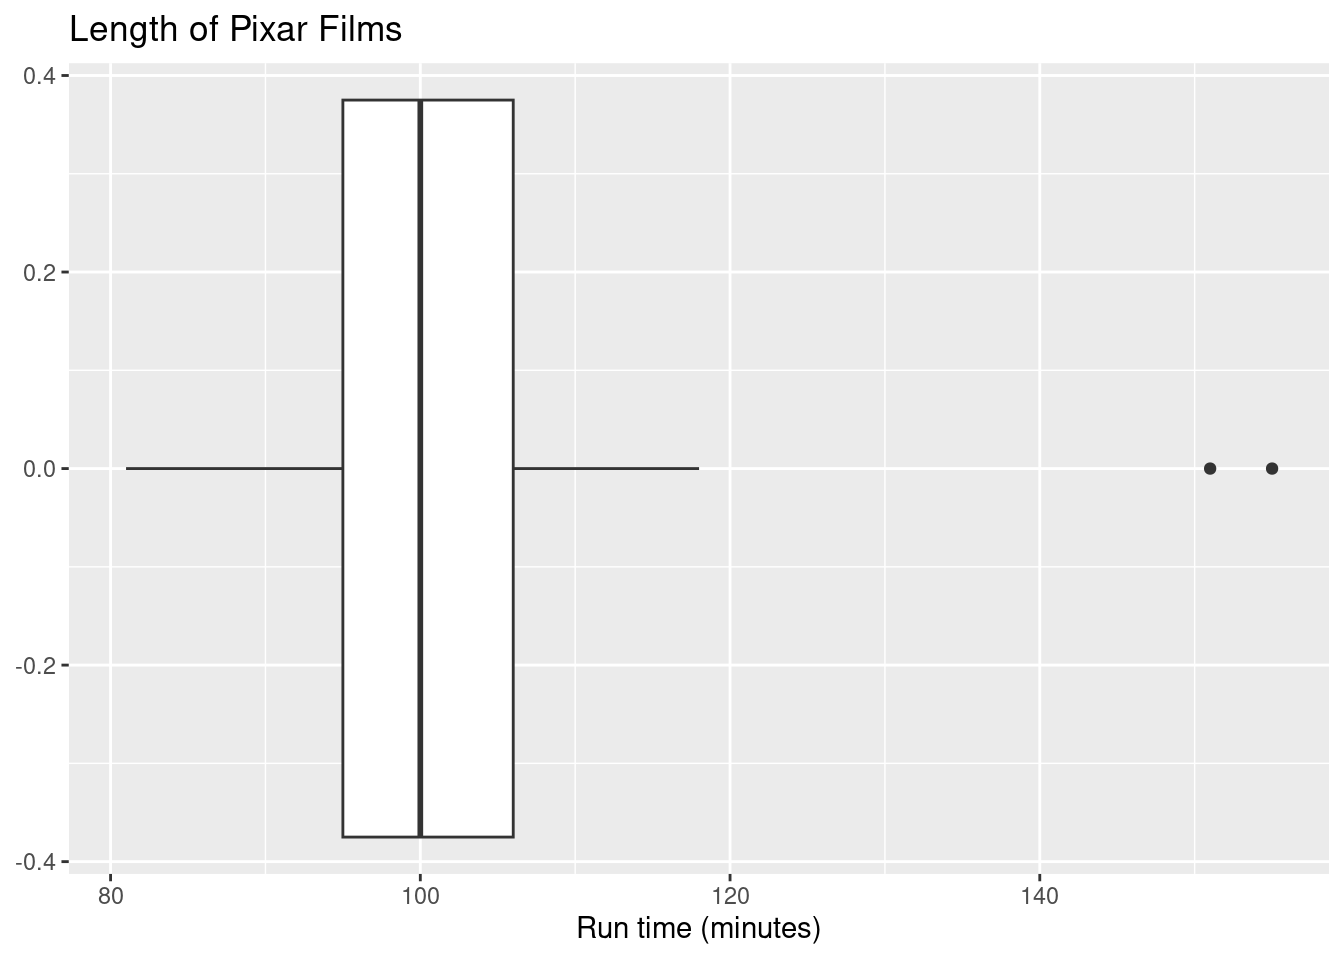
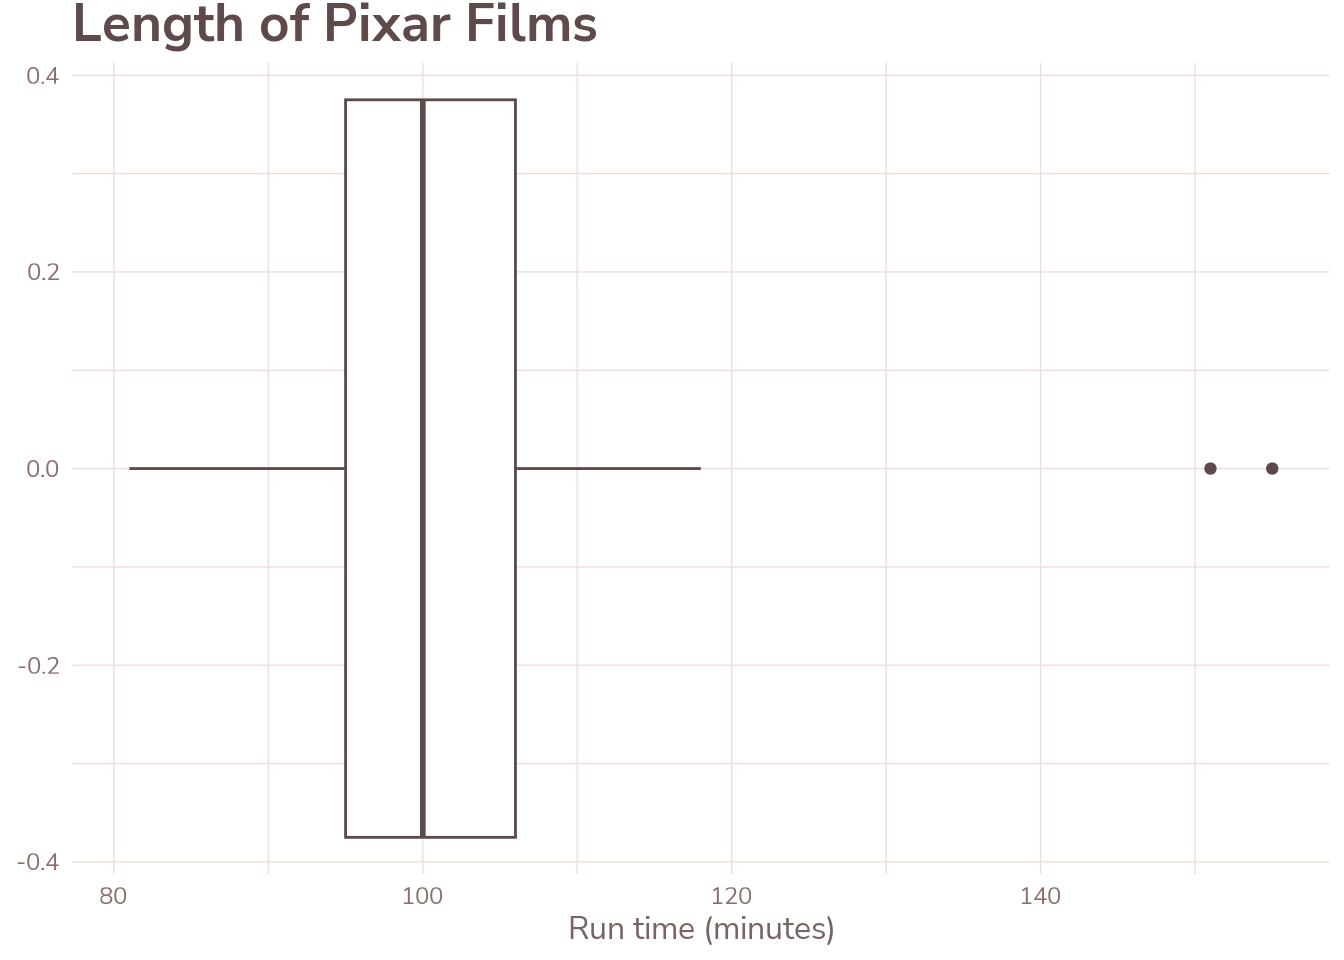
fasdf

diff --git a/docs/pixarfilms.html b/docs/pixarfilms.html
@@ -23,6 +23,40 @@ ul.task-list li input[type="checkbox"] {
   margin: 0 0.8em 0.2em -1em; /* quarto-specific, see https://github.com/quarto-dev/quarto-cli/issues/4556 */ 
   vertical-align: middle;
 }
+/* CSS for syntax highlighting */
+pre > code.sourceCode { white-space: pre; position: relative; }
+pre > code.sourceCode > span { line-height: 1.25; }
+pre > code.sourceCode > span:empty { height: 1.2em; }
+.sourceCode { overflow: visible; }
+code.sourceCode > span { color: inherit; text-decoration: inherit; }
+div.sourceCode { margin: 1em 0; }
+pre.sourceCode { margin: 0; }
+@media screen {
+div.sourceCode { overflow: auto; }
+}
+@media print {
+pre > code.sourceCode { white-space: pre-wrap; }
+pre > code.sourceCode > span { display: inline-block; text-indent: -5em; padding-left: 5em; }
+}
+pre.numberSource code
+  { counter-reset: source-line 0; }
+pre.numberSource code > span
+  { position: relative; left: -4em; counter-increment: source-line; }
+pre.numberSource code > span > a:first-child::before
+  { content: counter(source-line);
+    position: relative; left: -1em; text-align: right; vertical-align: baseline;
+    border: none; display: inline-block;
+    -webkit-touch-callout: none; -webkit-user-select: none;
+    -khtml-user-select: none; -moz-user-select: none;
+    -ms-user-select: none; user-select: none;
+    padding: 0 4px; width: 4em;
+  }
+pre.numberSource { margin-left: 3em;  padding-left: 4px; }
+div.sourceCode
+  {   }
+@media screen {
+pre > code.sourceCode > span > a:first-child::before { text-decoration: underline; }
+}
 </style>
 
 
@@ -183,18 +217,44 @@ ul.task-list li input[type="checkbox"] {
 </header>
 
 
+<p>For this first mini-project, I wanted to examine data from a TidyTuesday data set on Pixar films. The data set provides information on the name of the film, order of release, the date the film premiered, run time, and the film’s rating based on the Motion Picture Association (MPA)’s rating system. More information on the data set can be found from the sources, linked below.</p>
+<p>For my initial exploration, I decided to visualize the distribution of run times for Pixar films. Since I’m only interested in one variable, I chose to create a boxplot.</p>
 <div class="cell">
+<details class="code-fold">
+<summary>Show the code</summary>
+<div class="sourceCode cell-code" id="cb1"><pre class="sourceCode r code-with-copy"><code class="sourceCode r"><span id="cb1-1"><a href="#cb1-1" aria-hidden="true" tabindex="-1"></a><span class="co">#installing necessary packages for my data exploration </span></span>
+<span id="cb1-2"><a href="#cb1-2" aria-hidden="true" tabindex="-1"></a><span class="fu">library</span>(tidytuesdayR)</span>
+<span id="cb1-3"><a href="#cb1-3" aria-hidden="true" tabindex="-1"></a><span class="fu">library</span>(ggplot2)</span>
+<span id="cb1-4"><a href="#cb1-4" aria-hidden="true" tabindex="-1"></a><span class="fu">source</span>(<span class="st">"R/theme_asuva.R"</span>)</span>
+<span id="cb1-5"><a href="#cb1-5" aria-hidden="true" tabindex="-1"></a><span class="fu">library</span>(readr)</span>
+<span id="cb1-6"><a href="#cb1-6" aria-hidden="true" tabindex="-1"></a></span>
+<span id="cb1-7"><a href="#cb1-7" aria-hidden="true" tabindex="-1"></a><span class="co">#loading the data set</span></span>
+<span id="cb1-8"><a href="#cb1-8" aria-hidden="true" tabindex="-1"></a>pixar_films <span class="ot">&lt;-</span> <span class="fu">read_csv</span>(<span class="st">"https://raw.githubusercontent.com/rfordatascience/tidytuesday/main/data/2025/2025-03-11/pixar_films.csv"</span>)</span>
+<span id="cb1-9"><a href="#cb1-9" aria-hidden="true" tabindex="-1"></a></span>
+<span id="cb1-10"><a href="#cb1-10" aria-hidden="true" tabindex="-1"></a><span class="co">#creating a box plot for film length </span></span>
+<span id="cb1-11"><a href="#cb1-11" aria-hidden="true" tabindex="-1"></a><span class="fu">ggplot</span>(pixar_films, <span class="fu">aes</span>(<span class="at">x =</span> run_time))<span class="sc">+</span></span>
+<span id="cb1-12"><a href="#cb1-12" aria-hidden="true" tabindex="-1"></a>  <span class="fu">geom_boxplot</span>(<span class="at">color=</span><span class="st">"#5e4a4a"</span>)<span class="sc">+</span></span>
+<span id="cb1-13"><a href="#cb1-13" aria-hidden="true" tabindex="-1"></a>  <span class="fu">labs</span>(<span class="at">x =</span><span class="st">"Run time (minutes)"</span>,<span class="at">title =</span><span class="st">"Length of Pixar Films"</span>) <span class="sc">+</span></span>
+<span id="cb1-14"><a href="#cb1-14" aria-hidden="true" tabindex="-1"></a>  <span class="fu">theme_asuva</span>()</span></code><button title="Copy to Clipboard" class="code-copy-button"><i class="bi"></i></button></pre></div>
+</details>
 <div class="cell-output-display">
 <div>
 <figure class="figure">
-<p><img src="pixarfilms_files/figure-html/unnamed-chunk-1-1.png" class="img-fluid figure-img" width="672"></p>
+<p><img src="pixarfilms_files/figure-html/unnamed-chunk-1-1.png" class="img-fluid figure-img" alt="Box plot of Pixar films by run time, where median run time is around 100 minutes with two outliers." width="672"></p>
 </figure>
 </div>
 </div>
 </div>
-<p>In this boxplot, I wanted to view the distribution of run times for Pixar films and see how long most Pixar films were. I chose to create a boxplot since I was only interested in one variable (the run time). According to the boxplot, the median run time was around 100 minutes, with 2 films as outliers. The graph is skewed to the right as a result.</p>
-<p>I wanted to know what the values were for the median and the first and third quartile, so I tried to wrangle the data to get the summary statistics. The tibble below shows what I found:</p>
+<p>According to the boxplot, the median run time for Pixar films was around 100 minutes. Two films in the set are outliers, causing the graph to skew right.</p>
+<p>I wanted to know what the values were for the median and the first and third quartile, so I wrangled the data to get the summary statistics. The tibble below shows what I found:</p>
 <div class="cell">
+<details class="code-fold">
+<summary>Show the code</summary>
+<div class="sourceCode cell-code" id="cb2"><pre class="sourceCode r code-with-copy"><code class="sourceCode r"><span id="cb2-1"><a href="#cb2-1" aria-hidden="true" tabindex="-1"></a><span class="fu">library</span>(dplyr)</span>
+<span id="cb2-2"><a href="#cb2-2" aria-hidden="true" tabindex="-1"></a></span>
+<span id="cb2-3"><a href="#cb2-3" aria-hidden="true" tabindex="-1"></a>pixar_films <span class="sc">|&gt;</span> </span>
+<span id="cb2-4"><a href="#cb2-4" aria-hidden="true" tabindex="-1"></a>  <span class="fu">summarize</span>(<span class="at">average_runtime =</span> <span class="fu">median</span>(run_time, <span class="at">na.rm =</span> <span class="cn">TRUE</span>), <span class="at">Q1 =</span> <span class="fu">quantile</span>(run_time, <span class="fl">0.25</span>, <span class="at">na.rm =</span> <span class="cn">TRUE</span>), <span class="at">Q3 =</span> <span class="fu">quantile</span>(run_time, <span class="fl">0.75</span>, <span class="at">na.rm =</span> <span class="cn">TRUE</span>))</span></code><button title="Copy to Clipboard" class="code-copy-button"><i class="bi"></i></button></pre></div>
+</details>
 <div class="cell-output cell-output-stdout">
 <pre><code># A tibble: 1 × 3
   average_runtime    Q1    Q3
@@ -202,8 +262,15 @@ ul.task-list li input[type="checkbox"] {
 1             100    95   106</code></pre>
 </div>
 </div>
-<p>I also wanted to see what films were the two potential outliers. To do this, I created code for a data frame using the mutate function that would alert me to any outliers if the film’s run time was over 120 minutes, a metric I obtained from the boxplot above. The tibble is shown below. One of the outliers was Luca, with a run time of 151 minutes. The other film was unknown from the data set, but after some research done using the info in the release_date column, I found out that the film was Elemental.</p>
+<p>I also wanted to see what films were the two potential outliers in the box plot. To do this, I created code for a data frame using the mutate function that would alert me to any outliers if the film’s run time was over 120 minutes, a metric I obtained from the boxplot above. The tibble is shown below. One of the outliers was <em>Luca</em>, with a run time of 151 minutes. The other film was unknown from the data set, but after some research done using the info in the release_date column, I found out that the film was <em>Elemental</em>.</p>
 <div class="cell">
+<details class="code-fold">
+<summary>Show the code</summary>
+<div class="sourceCode cell-code" id="cb4"><pre class="sourceCode r code-with-copy"><code class="sourceCode r"><span id="cb4-1"><a href="#cb4-1" aria-hidden="true" tabindex="-1"></a>pixar_films <span class="sc">|&gt;</span></span>
+<span id="cb4-2"><a href="#cb4-2" aria-hidden="true" tabindex="-1"></a>  <span class="fu">select</span>(film, run_time, release_date) <span class="sc">|&gt;</span></span>
+<span id="cb4-3"><a href="#cb4-3" aria-hidden="true" tabindex="-1"></a>  <span class="fu">mutate</span>(<span class="at">potential_outlier =</span> <span class="fu">ifelse</span>(run_time <span class="sc">&gt;</span> <span class="dv">120</span>, <span class="st">"Yes"</span>, <span class="st">"No"</span>)) <span class="sc">|&gt;</span></span>
+<span id="cb4-4"><a href="#cb4-4" aria-hidden="true" tabindex="-1"></a>  <span class="fu">arrange</span>(<span class="fu">desc</span>(potential_outlier))</span></code><button title="Copy to Clipboard" class="code-copy-button"><i class="bi"></i></button></pre></div>
+</details>
 <div class="cell-output cell-output-stdout">
 <pre><code># A tibble: 27 × 4
    film            run_time release_date potential_outlier
@@ -221,7 +288,7 @@ ul.task-list li input[type="checkbox"] {
 # ℹ 17 more rows</code></pre>
 </div>
 </div>
-<p>Credits:</p>
+<p><u>Credits:</u></p>
 <p><strong>Data:</strong> TidyTuesday Pixar Films, <a href="https://github.com/rfordatascience/tidytuesday/blob/main/data/2025/2025-03-11/readme.md" class="uri">https://github.com/rfordatascience/tidytuesday/blob/main/data/2025/2025-03-11/readme.md</a></p>
 <p><strong>Original Source:</strong> pixarfilms R package by Eric Leung, drawing data from Wikipedia and OMDb, <a href="https://github.com/erictleung/pixarfilms" class="uri">https://github.com/erictleung/pixarfilms</a></p>
 
